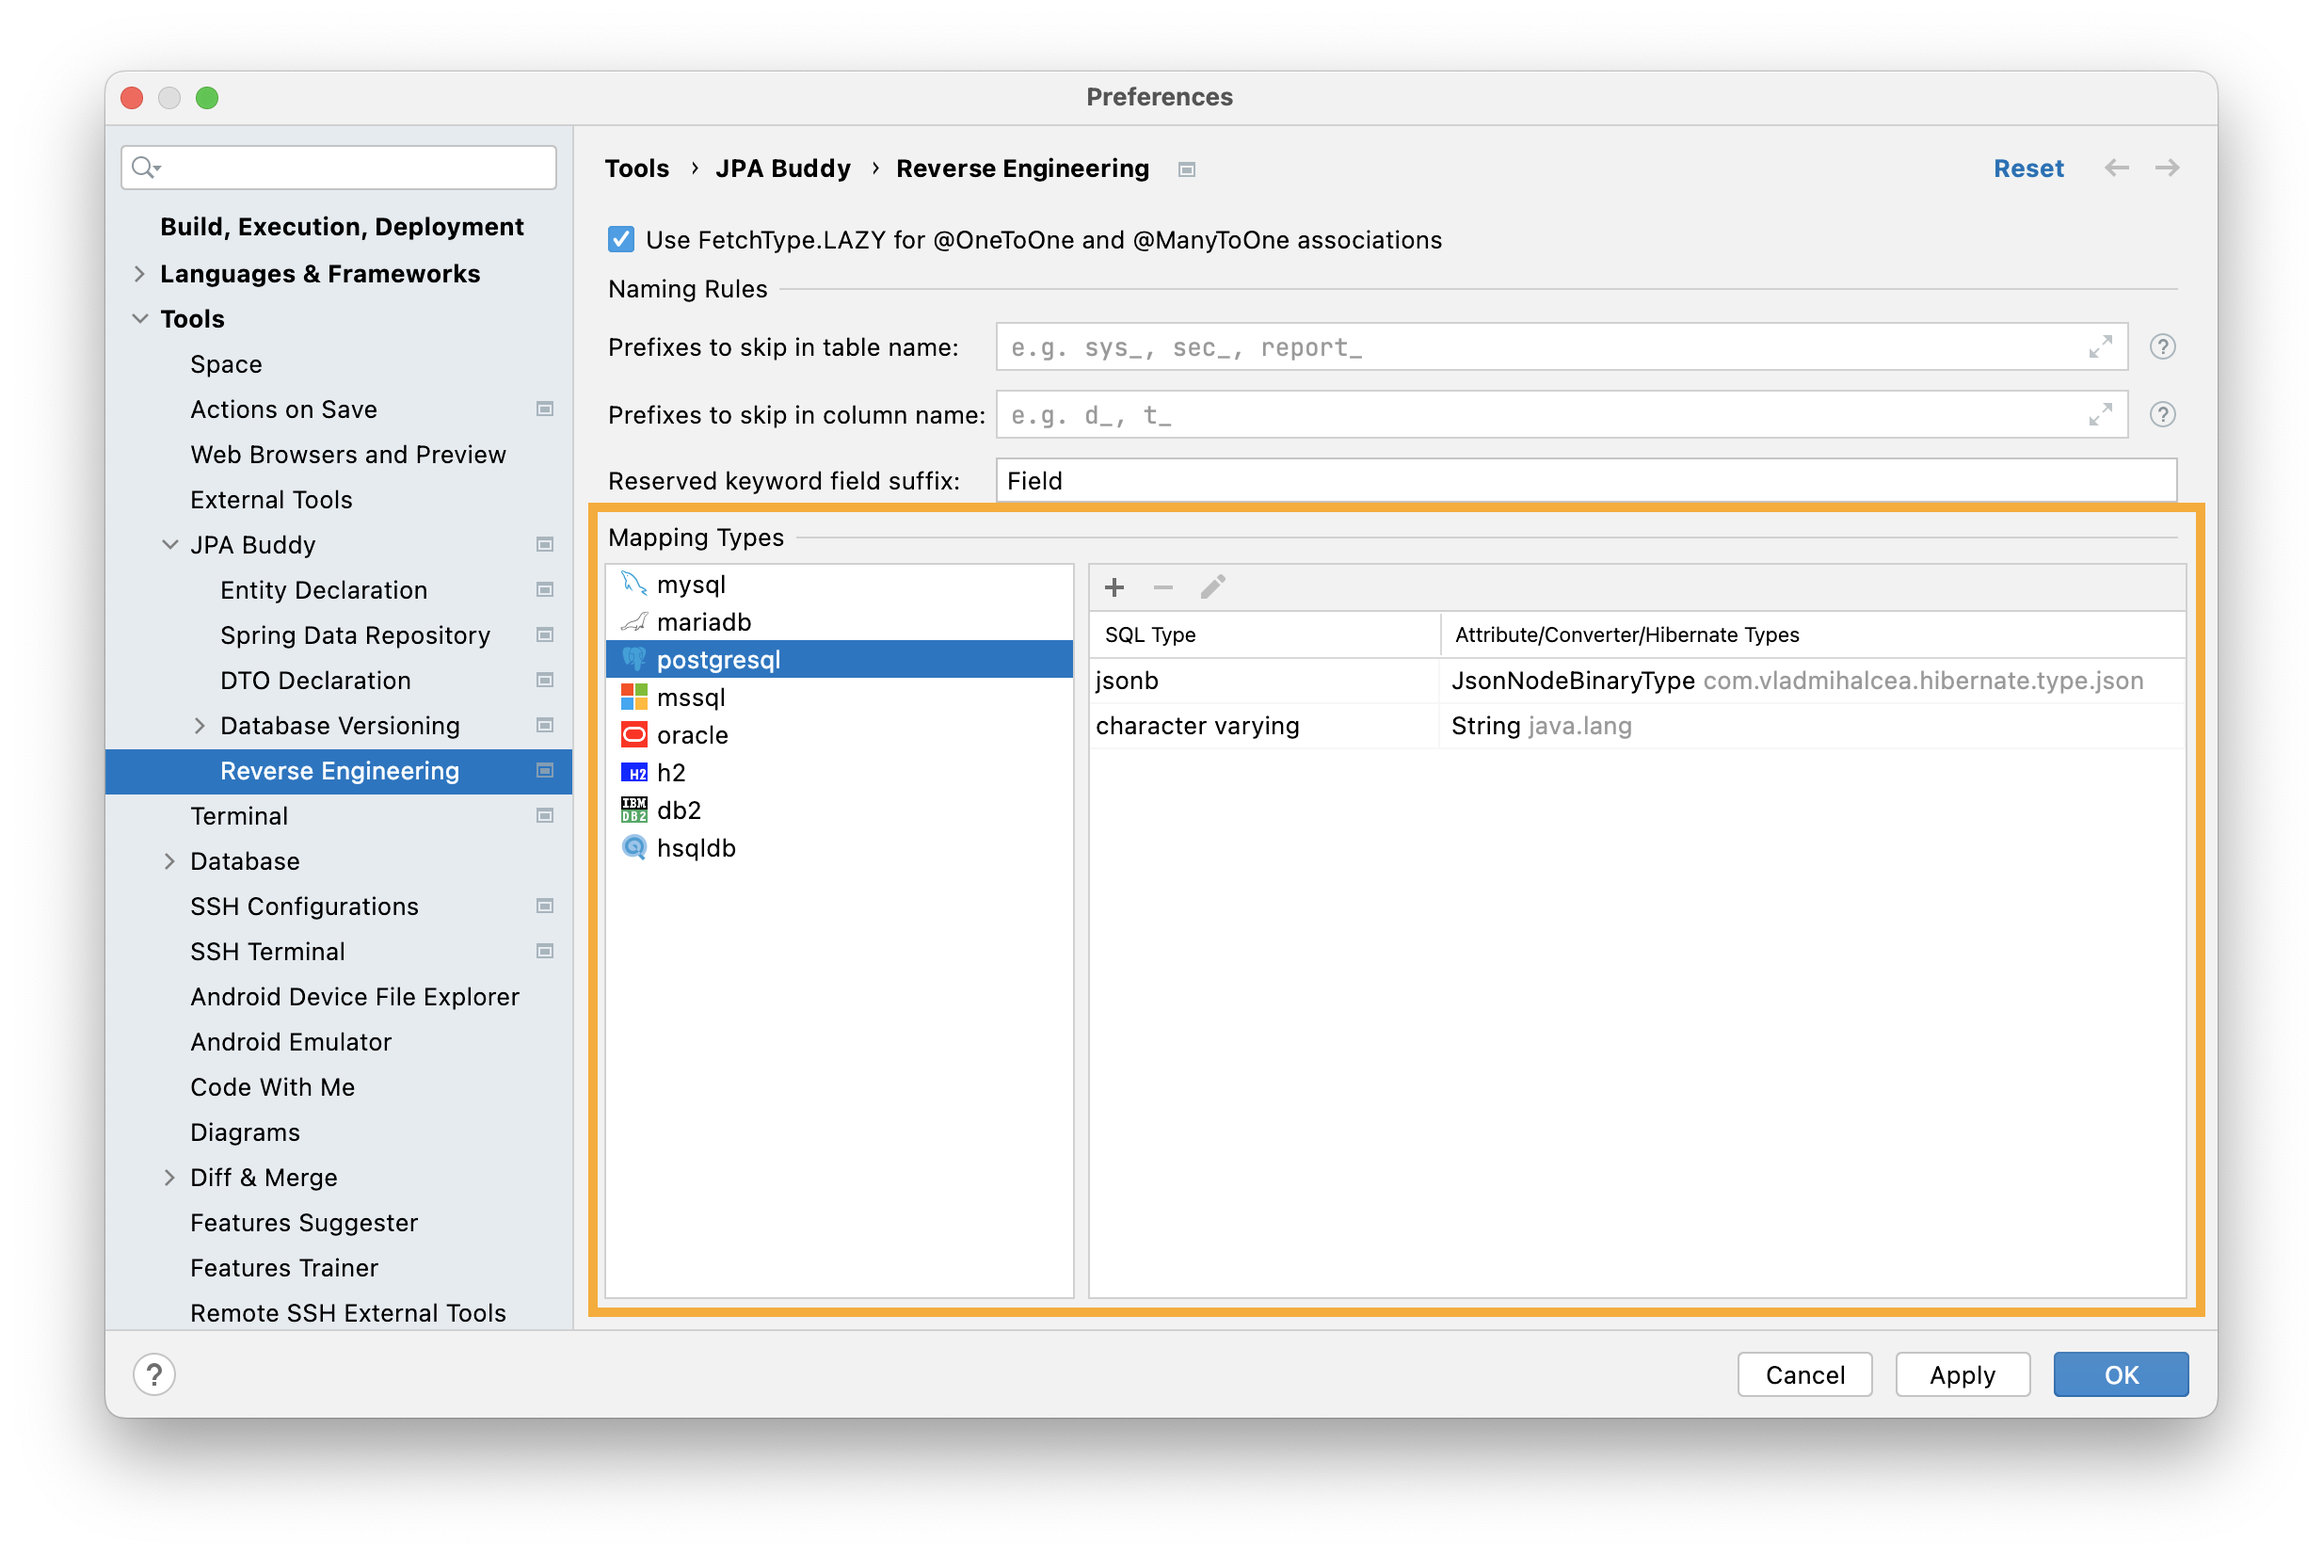
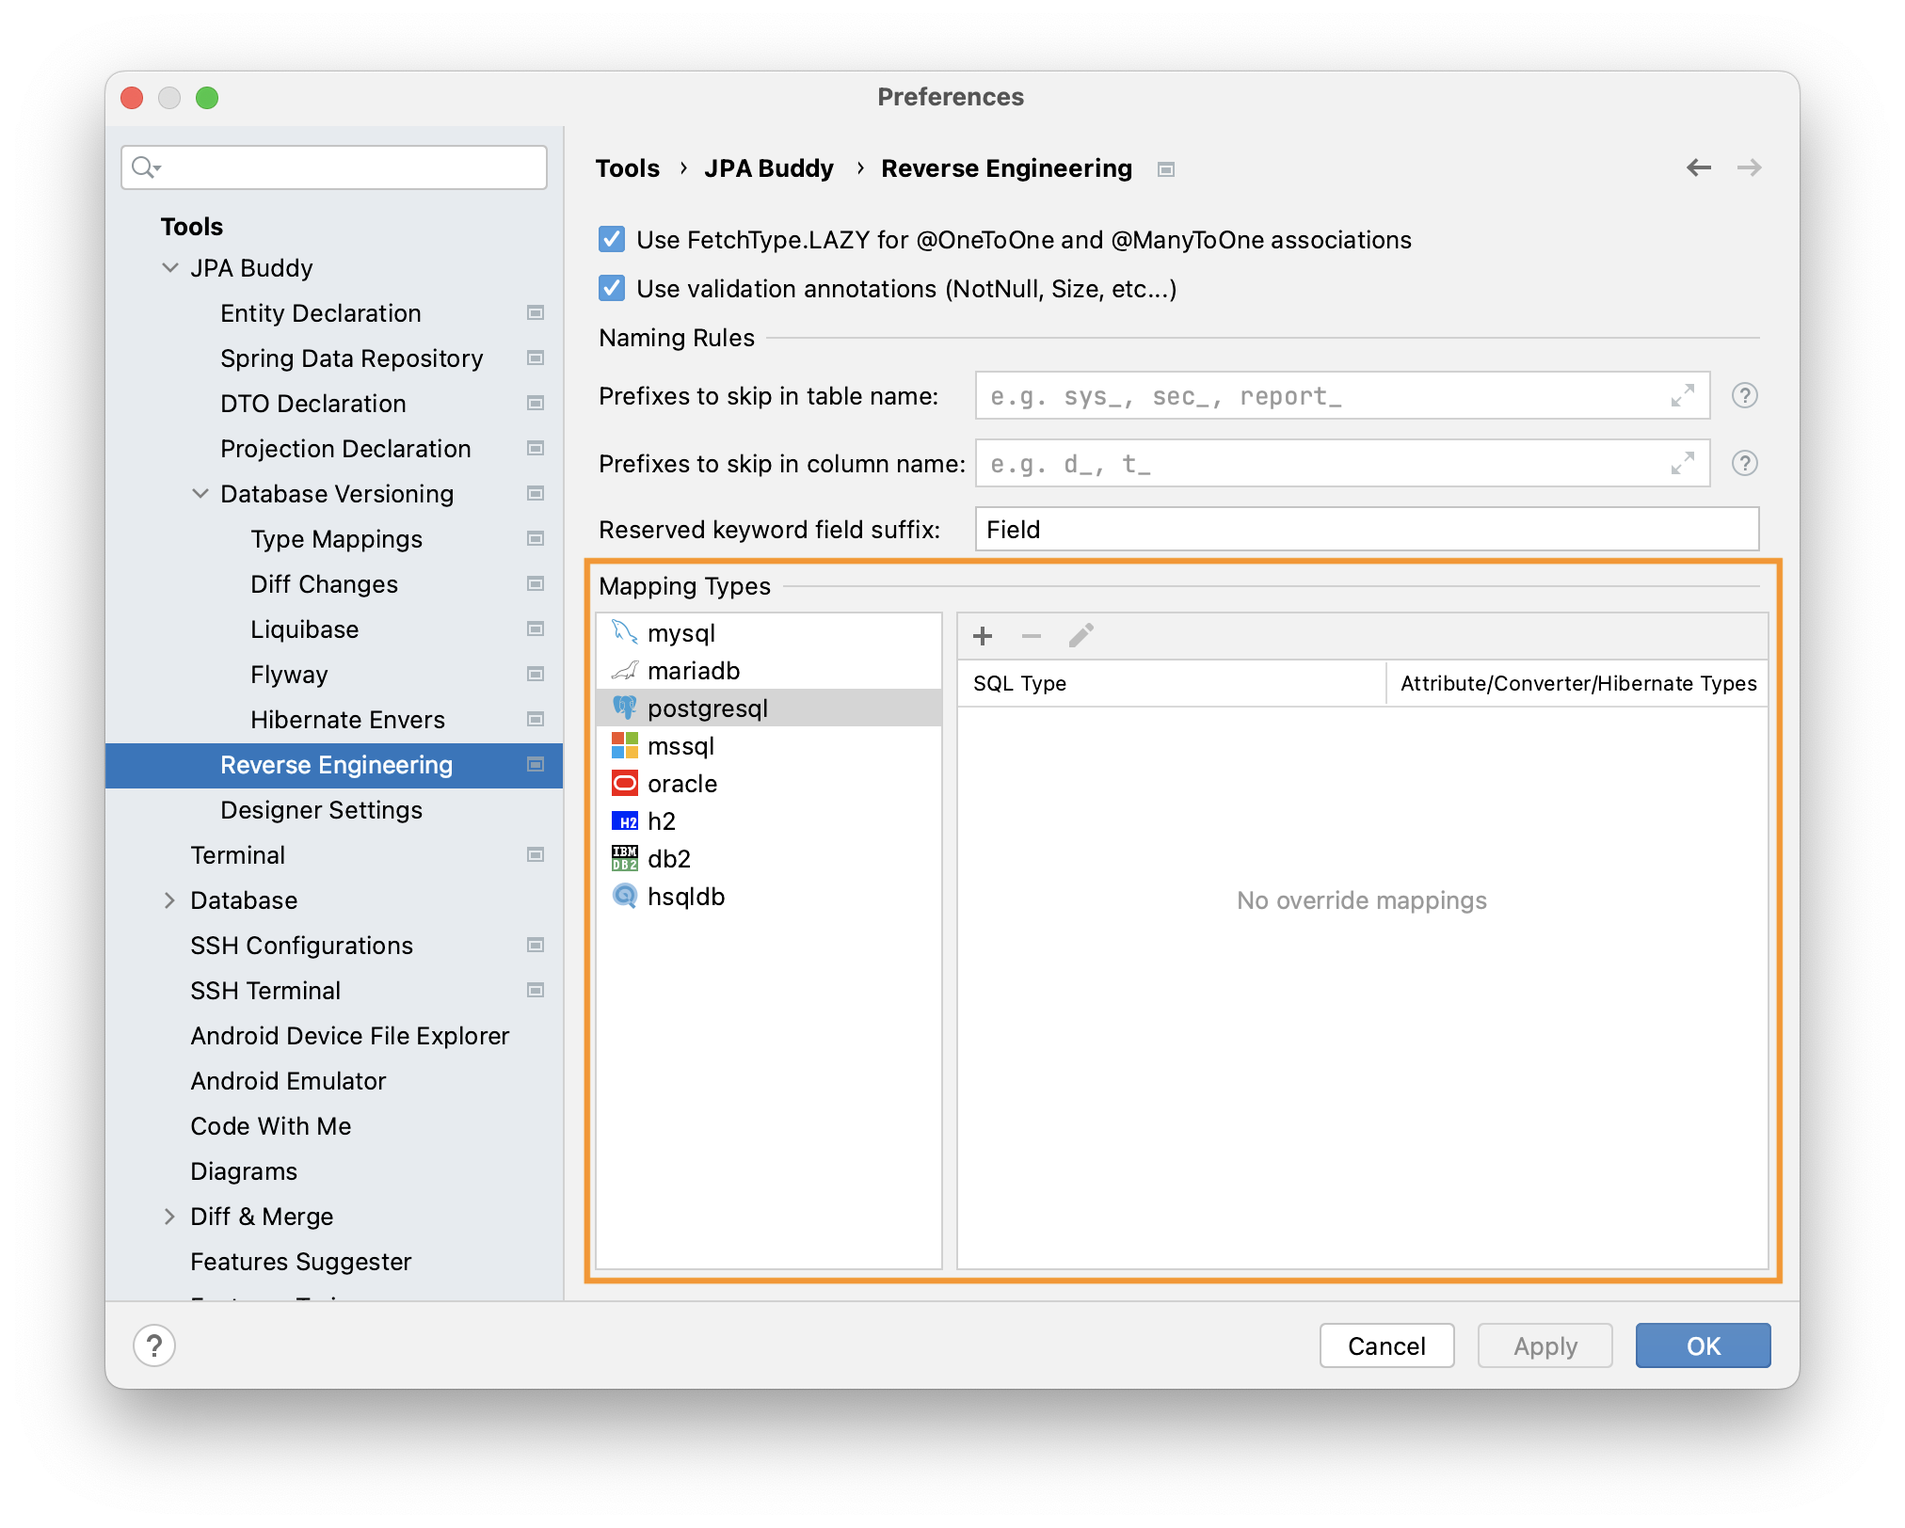
Settings changes #82

Changed region(s): [[0.0311, 0.0308, 0.9649, 0.9236], [0.6537, 0.585, 0.7782, 0.6158], [0.5603, 0.4002, 0.5914, 0.431]]

diff --git a/reverse-engineering/reverse-engineering.md b/reverse-engineering/reverse-engineering.md
@@ -422,11 +422,17 @@ The larger the database and the slower the connection of the database (for examp
 
 ## Settings
 
-### Fetch Type
+### General
 
-To follow best practices and don't cause performance issues, JPA Buddy sets `FetchType.LAZY` for  `@`OneToOne and `@`ManyToOne associations by default. But you can change the default value in any time. Open Preferences -> Tools -> JPA Buddy -> Reverse Engineering:
+**Fetch Type**
 
-![fetch_type](img/preferences_fetch_type.png)
+To follow best practices and don't cause performance issues, JPA Buddy sets `FetchType.LAZY` for  `@OneToOne` and `@ManyToOne` associations by default.
+
+**Validation Annotations**
+
+Validation annotations gives you another layer of protection in addition to the DB constraints. By default, JPA Buddy will apply such annotations over entity attributes while reverse engineering.
+
+![preferences_general](img/preferences_general.png)
 
 ### Naming Rules
 
